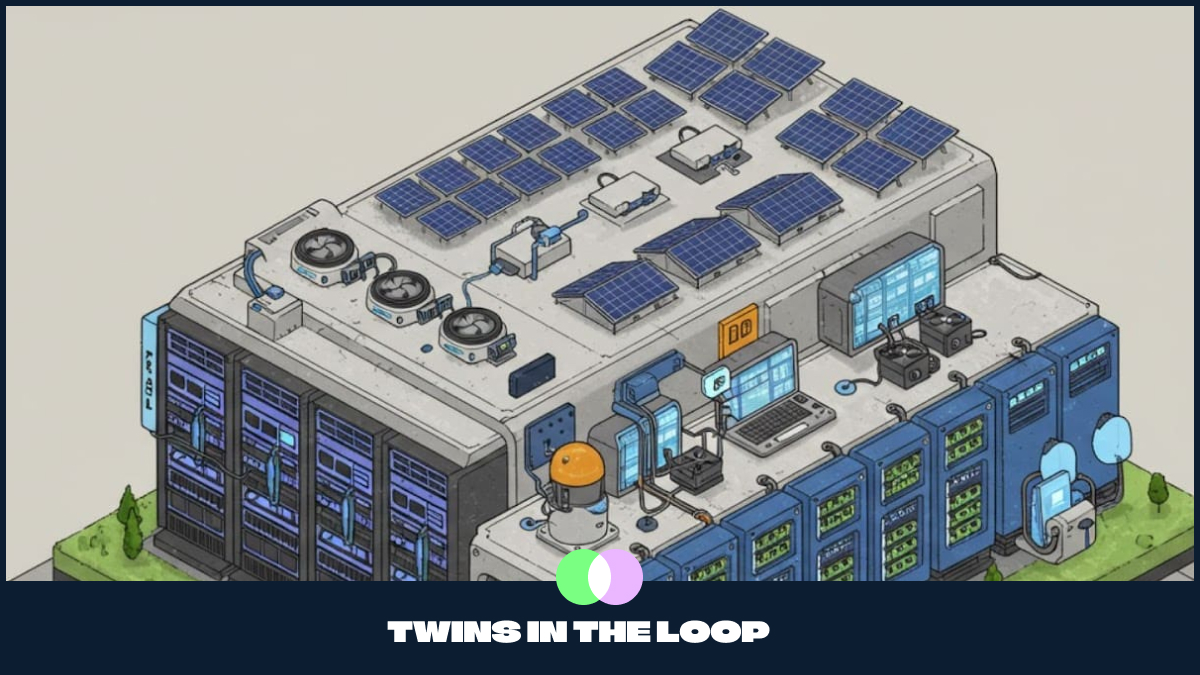
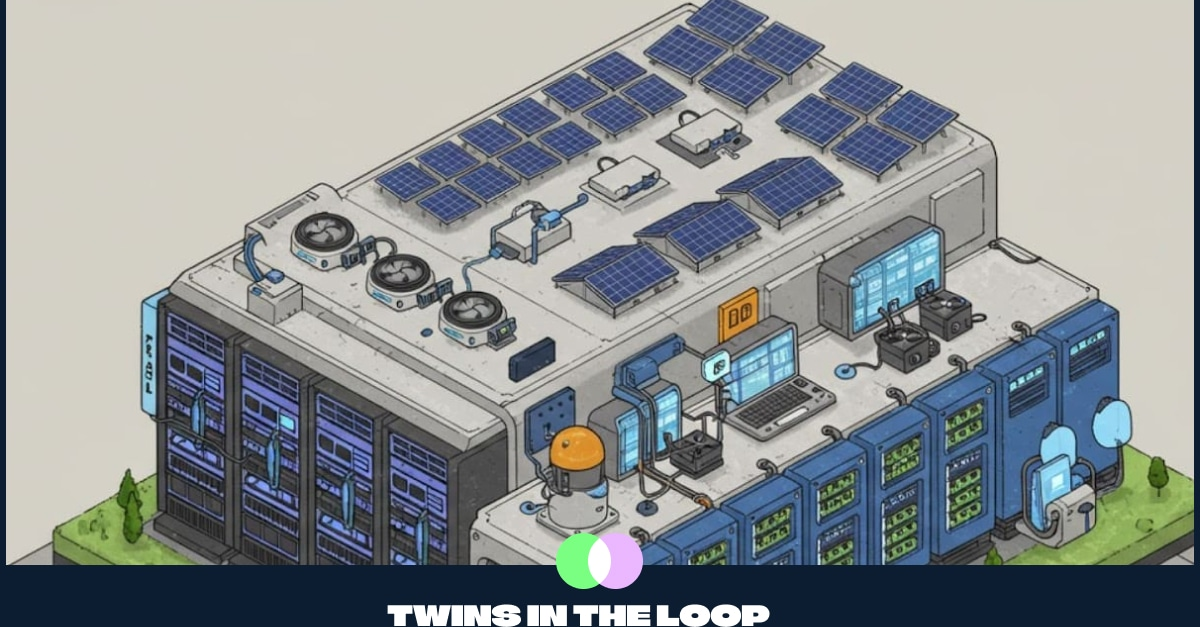
fix: drop the article cover and size share cards for LinkedIn
The detail-page cover pushed the copy down, so cards and podcast art
keep the image while the article itself does not. Share cards are now
1200x627, the ratio LinkedIn shows without cropping the brand bar.

diff --git a/src/lib/seo.ts b/src/lib/seo.ts
@@ -6,6 +6,14 @@ export const DEFAULT_OG_IMAGE = '/images/og-default.jpg';
 /** Article pages when `og.image` and `cover` are omitted. */
 export const ARTICLE_OG_IMAGE = '/images/og-news.jpg';
 
+/**
+ * LinkedIn link-preview size.
+ * https://www.linkedin.com/help/linkedin/answer/a521928
+ * Minimum 1200×627, recommended ratio 1.91:1, max 5 MB.
+ */
+export const OG_IMAGE_WIDTH = 1200;
+export const OG_IMAGE_HEIGHT = 627;
+
 export type OgType = 'website' | 'article';
 
 export interface OgInput {
@@ -31,6 +39,9 @@ export interface ResolvedSeo {
   ogTitle: string;
   ogDescription: string;
   ogImage: string;
+  ogImageType?: string;
+  ogImageWidth?: number;
+  ogImageHeight?: number;
   ogType: OgType;
   robots: string;
   keywords?: string[];
@@ -65,6 +76,48 @@ export function framedOgImagePath(slug: string): string {
   return `/og/${slug}.jpg`;
 }
 
+function imagePathname(imageUrl: string): string {
+  if (/^https?:\/\//.test(imageUrl)) {
+    return new URL(imageUrl).pathname;
+  }
+
+  const queryIndex = imageUrl.indexOf('?');
+  return queryIndex === -1 ? imageUrl : imageUrl.slice(0, queryIndex);
+}
+
+/** MIME type LinkedIn accepts. WebP is omitted; their crawler drops it. */
+export function ogImageType(imageUrl: string): string | undefined {
+  const pathname = imagePathname(imageUrl).toLowerCase();
+  if (pathname.endsWith('.jpg') || pathname.endsWith('.jpeg')) {
+    return 'image/jpeg';
+  }
+  if (pathname.endsWith('.png')) {
+    return 'image/png';
+  }
+  if (pathname.endsWith('.gif')) {
+    return 'image/gif';
+  }
+
+  return undefined;
+}
+
+/** Width and height for cards we generate at the LinkedIn size. */
+export function standardOgDimensions(
+  imageUrl: string,
+): { width: number; height: number } | undefined {
+  const pathname = imagePathname(imageUrl);
+  const standard =
+    pathname.endsWith(DEFAULT_OG_IMAGE) ||
+    pathname.endsWith(ARTICLE_OG_IMAGE) ||
+    /\/og\/[^/]+\.jpe?g$/.test(pathname);
+
+  if (!standard) {
+    return undefined;
+  }
+
+  return { width: OG_IMAGE_WIDTH, height: OG_IMAGE_HEIGHT };
+}
+
 export function articleOgImage(
   image: string | { src: string } | undefined,
   cover?: string | { src: string } | undefined,
@@ -95,6 +148,7 @@ export function resolveSeo(
     ? ogSource
     : new URL(withBase(ogSource), site.siteUrl).toString();
   const indexable = options.indexable ?? isSiteIndexable();
+  const dimensions = standardOgDimensions(ogImage);
 
   return {
     title: input.title,
@@ -103,6 +157,9 @@ export function resolveSeo(
     ogTitle: input.og?.title ?? withSiteTitle(input.title, site.title),
     ogDescription: input.og?.description ?? input.description,
     ogImage,
+    ogImageType: ogImageType(ogImage),
+    ogImageWidth: dimensions?.width,
+    ogImageHeight: dimensions?.height,
     ogType: input.og?.type ?? 'website',
     robots: !indexable || input.noindex ? 'noindex, nofollow' : 'index, follow',
     keywords: input.keywords,

diff --git a/src/lib/ogImage.ts b/src/lib/ogImage.ts
@@ -1,9 +1,10 @@
 import path from 'node:path';
 import sharp from 'sharp';
+import { OG_IMAGE_HEIGHT, OG_IMAGE_WIDTH } from './seo';
 
-/** Matches `public/images/og-news.jpg` (16:9). */
-export const OG_IMAGE_WIDTH = 1200;
-export const OG_IMAGE_HEIGHT = 675;
+export { OG_IMAGE_HEIGHT, OG_IMAGE_WIDTH };
+
+/** JPEG quality for the composed LinkedIn card. */
 export const OG_IMAGE_QUALITY = 90;
 
 /** Resolve from the repo root. `import.meta.url` breaks after Astro prerender relocates this module. */
@@ -17,21 +18,43 @@ export interface ComposeOgImageInput {
   frame?: string | Buffer;
 }
 
+async function linkedInFrame(frame: string | Buffer): Promise<Buffer> {
+  const metadata = await sharp(frame).metadata();
+  const sourceWidth = metadata.width ?? OG_IMAGE_WIDTH;
+  const sourceHeight = metadata.height ?? OG_IMAGE_HEIGHT;
+  const scaledHeight = Math.round(
+    (OG_IMAGE_WIDTH * sourceHeight) / sourceWidth,
+  );
+  const resized = sharp(frame).resize(OG_IMAGE_WIDTH, scaledHeight, {
+    fit: 'fill',
+  });
+  // The brand bar sits on the bottom of the 16:9 frame. Keep that edge and
+  // trim the transparent top so the bar is not squashed on the shorter card.
+  const overlay =
+    scaledHeight > OG_IMAGE_HEIGHT
+      ? resized.extract({
+          left: 0,
+          top: scaledHeight - OG_IMAGE_HEIGHT,
+          width: OG_IMAGE_WIDTH,
+          height: OG_IMAGE_HEIGHT,
+        })
+      : resized;
+
+  return overlay.png().toBuffer();
+}
+
 export async function composeOgImage({
   cover,
   frame = OG_FRAME_PATH,
 }: ComposeOgImageInput): Promise<Buffer> {
-  const overlay = await sharp(frame)
-    .resize(OG_IMAGE_WIDTH, OG_IMAGE_HEIGHT, { fit: 'fill' })
-    .png()
-    .toBuffer();
+  const overlay = await linkedInFrame(frame);
 
   return sharp(cover)
     .resize(OG_IMAGE_WIDTH, OG_IMAGE_HEIGHT, {
       fit: 'cover',
       position: 'centre',
     })
-    .composite([{ input: overlay, blend: 'over' }])
+    .composite([{ input: overlay, gravity: 'south', blend: 'over' }])
     .jpeg({ quality: OG_IMAGE_QUALITY, mozjpeg: true })
     .toBuffer();
 }

diff --git a/src/lib/seo.test.ts b/src/lib/seo.test.ts
@@ -2,6 +2,8 @@ import { describe, expect, it } from 'vitest';
 import {
   ARTICLE_OG_IMAGE,
   DEFAULT_OG_IMAGE,
+  OG_IMAGE_HEIGHT,
+  OG_IMAGE_WIDTH,
   articleOgImage,
   resolveSeo,
   withSiteTitle,
@@ -25,6 +27,9 @@ describe('resolveSeo', () => {
 
     expect(seo.canonical).toBe('https://twinsintheloop.com/about');
     expect(seo.ogImage).toBe(`https://twinsintheloop.com${DEFAULT_OG_IMAGE}`);
+    expect(seo.ogImageType).toBe('image/jpeg');
+    expect(seo.ogImageWidth).toBe(OG_IMAGE_WIDTH);
+    expect(seo.ogImageHeight).toBe(OG_IMAGE_HEIGHT);
     expect(seo.ogTitle).toBe('About · Twins in the Loop');
     expect(seo.ogDescription).toBe('Meet the twins');
     expect(seo.robots).toBe('index, follow');
@@ -55,6 +60,9 @@ describe('resolveSeo', () => {
       'We are infrastructure, open source software, and design nerds who love building for the future.',
     );
     expect(seo.ogImage).toBe('https://twinsintheloop.com/share/about.png');
+    expect(seo.ogImageType).toBe('image/png');
+    expect(seo.ogImageWidth).toBeUndefined();
+    expect(seo.ogImageHeight).toBeUndefined();
     expect(seo.ogType).toBe('website');
   });
 
@@ -101,9 +109,21 @@ describe('articleOgImage', () => {
   });
 
   it('uses a framed share card when a cover and slug are present', () => {
-    expect(articleOgImage(undefined, { src: '/covers/post.png' }, 'post')).toBe(
-      '/og/post.jpg',
+    const image = articleOgImage(
+      undefined,
+      { src: '/covers/post.png' },
+      'post',
     );
+    expect(image).toBe('/og/post.jpg');
+
+    const seo = resolveSeo(
+      { title: 'Post', description: 'Body', og: { image } },
+      site,
+      '/post',
+    );
+    expect(seo.ogImageWidth).toBe(OG_IMAGE_WIDTH);
+    expect(seo.ogImageHeight).toBe(OG_IMAGE_HEIGHT);
+    expect(seo.ogImageType).toBe('image/jpeg');
   });
 
   it('falls back to cover when og.image and slug are omitted', () => {

diff --git a/src/lib/images.ts b/src/lib/images.ts
@@ -5,10 +5,6 @@ export const CARD_THUMBNAIL_WIDTHS = [400, 640, 800, 1200] as const;
 export const CARD_THUMBNAIL_SIZES =
   '(min-width: 1680px) 800px, (min-width: 768px) 45vw, 100vw';
 
-export const ARTICLE_COVER_WIDTHS = [640, 960, 1280, 1600] as const;
-export const ARTICLE_COVER_SIZES =
-  '(min-width: 1680px) 960px, (min-width: 1024px) 66vw, 100vw';
-
 /** Square episode art next to a podcast player. */
 export const EPISODE_ART_WIDTHS = [288, 576] as const;
 export const EPISODE_ART_SIZES = '(min-width: 640px) 288px, 100vw';
@@ -38,10 +34,6 @@ export function responsiveImageWidths(
 
 export function thumbnailWidths(sourceWidth: number): number[] {
   return responsiveImageWidths(sourceWidth, CARD_THUMBNAIL_WIDTHS);
-}
-
-export function articleCoverWidths(sourceWidth: number): number[] {
-  return responsiveImageWidths(sourceWidth, ARTICLE_COVER_WIDTHS);
 }
 
 export function episodeArtWidths(sourceWidth: number): number[] {

diff --git a/src/lib/images.test.ts b/src/lib/images.test.ts
@@ -1,6 +1,5 @@
 import { describe, expect, it } from 'vitest';
 import {
-  articleCoverWidths,
   authorAvatarWidths,
   authorPhotoWidths,
   episodeArtWidths,
@@ -31,12 +30,6 @@ describe('responsiveImageWidths', () => {
 describe('thumbnailWidths', () => {
   it('uses the card thumbnail candidate list', () => {
     expect(thumbnailWidths(1600)).toEqual([400, 640, 800, 1200]);
-  });
-});
-
-describe('articleCoverWidths', () => {
-  it('uses the article cover candidate list', () => {
-    expect(articleCoverWidths(1920)).toEqual([640, 960, 1280, 1600]);
   });
 });
 

diff --git a/src/lib/ogImage.test.ts b/src/lib/ogImage.test.ts
@@ -47,7 +47,9 @@ describe('composeOgImage', () => {
 
     const raw = await image.removeAlpha().raw().toBuffer();
     expect(isClose(rgb(raw, 600, 40), [220, 40, 40])).toBe(true);
-    expect(isClose(rgb(raw, 100, 650), [56, 69, 85])).toBe(true);
+    expect(isClose(rgb(raw, 100, OG_IMAGE_HEIGHT - 25), [56, 69, 85])).toBe(
+      true,
+    );
   });
 
   it('reads the default frame from the covers asset', () => {

diff --git a/docs/content.md b/docs/content.md
@@ -35,7 +35,7 @@ Create a **Topic** entry in Strapi. That's all — no code change and no redeplo
 
 A topic with no posts still shows a chip that filters everything out, so delete unused ones.
 
-A cover only renders if Strapi knows its width and height, which it records automatically on upload. Posts without a cover show a solid panel instead, and `/og/{slug}.jpg` returns 404 so the share card falls back to `/images/og-news.jpg`.
+A cover only renders if Strapi knows its width and height, which it records automatically on upload. Posts without a cover show a solid panel on the homepage instead, and `/og/{slug}.jpg` returns 404 so the share card falls back to `/images/og-news.jpg`. The article page does not show the cover.
 
 ### If a published change doesn't appear
 
@@ -67,22 +67,22 @@ Written posts can omit `embedUrl` and `og`. Video and podcast entries should set
 
 ### Post fields
 
-| Field         | Required                                    | Effect                                                                                                                                                                   |
-| ------------- | ------------------------------------------- | ------------------------------------------------------------------------------------------------------------------------------------------------------------------------ |
-| `title`       | Yes                                         | Article H1, browser title, RSS title, Web Share title. Also `og:title` unless `og.title` is set                                                                          |
-| `description` | Yes                                         | Meta description, RSS description, and social description unless `og.description` is set                                                                                 |
-| `excerpt`     | Yes                                         | Homepage card teaser. Also fills the TL;DR box if `tldr` is omitted                                                                                                      |
-| `published`   | Yes                                         | Sort order, card date, article date, RSS `pubDate`. Use `YYYY-MM-DD`                                                                                                     |
-| `updated`     | No                                          | Optional last-updated date (`YYYY-MM-DD`)                                                                                                                                |
-| `author`      | Yes                                         | `zac` or `jacob`. Colors, tags, About lookup, author filter                                                                                                              |
-| `type`        | Yes                                         | `post`, `musing`, `video`, or `podcast`. Sets the icon on cards                                                                                                          |
-| `topics`      | Yes                                         | One or more of `ai`, `data-centers`, `infrastructure`, `hardware`. Powers homepage topic chips                                                                           |
-| `featured`    | No                                          | Stored on the post. Homepage shows every published post as a thumbnail card, newest first                                                                                |
-| `draft`       | No                                          | Default `false`. `true` hides the post from production builds. Drafts still show in `bun run dev`                                                                        |
-| `cover`       | No                                          | Homepage card image and article image. Share image is the framed `/og/{slug}.jpg` unless `og.image` is set. Posts without a cover use `/images/og-news.jpg`              |
-| `tldr`        | No                                          | Sidebar TL;DR on the article page. Falls back to `excerpt`                                                                                                               |
-| `embedUrl`    | No                                          | Video/podcast URL (`https://…`). Required in practice for `type: video` or `podcast`. Rendered as a player — see [Video and podcast players](#video-and-podcast-players) |
-| SEO fields    | See [SEO and sharing](./seo-and-sharing.md) | Nested `og` (`title`, `description`, `image`, `type`), plus `canonical`, `noindex`, `keywords`                                                                           |
+| Field         | Required                                    | Effect                                                                                                                                                                                           |
+| ------------- | ------------------------------------------- | ------------------------------------------------------------------------------------------------------------------------------------------------------------------------------------------------ |
+| `title`       | Yes                                         | Article H1, browser title, RSS title, Web Share title. Also `og:title` unless `og.title` is set                                                                                                  |
+| `description` | Yes                                         | Meta description, RSS description, and social description unless `og.description` is set                                                                                                         |
+| `excerpt`     | Yes                                         | Homepage card teaser. Also fills the TL;DR box if `tldr` is omitted                                                                                                                              |
+| `published`   | Yes                                         | Sort order, card date, article date, RSS `pubDate`. Use `YYYY-MM-DD`                                                                                                                             |
+| `updated`     | No                                          | Optional last-updated date (`YYYY-MM-DD`)                                                                                                                                                        |
+| `author`      | Yes                                         | `zac` or `jacob`. Colors, tags, About lookup, author filter                                                                                                                                      |
+| `type`        | Yes                                         | `post`, `musing`, `video`, or `podcast`. Sets the icon on cards                                                                                                                                  |
+| `topics`      | Yes                                         | One or more of `ai`, `data-centers`, `infrastructure`, `hardware`. Powers homepage topic chips                                                                                                   |
+| `featured`    | No                                          | Stored on the post. Homepage shows every published post as a thumbnail card, newest first                                                                                                        |
+| `draft`       | No                                          | Default `false`. `true` hides the post from production builds. Drafts still show in `bun run dev`                                                                                                |
+| `cover`       | No                                          | Homepage card image and podcast episode art. Not shown on the article page. Share image is the framed `/og/{slug}.jpg` unless `og.image` is set. Posts without a cover use `/images/og-news.jpg` |
+| `tldr`        | No                                          | Sidebar TL;DR on the article page. Falls back to `excerpt`                                                                                                                                       |
+| `embedUrl`    | No                                          | Video/podcast URL (`https://…`). Required in practice for `type: video` or `podcast`. Rendered as a player — see [Video and podcast players](#video-and-podcast-players)                         |
+| SEO fields    | See [SEO and sharing](./seo-and-sharing.md) | Nested `og` (`title`, `description`, `image`, `type`), plus `canonical`, `noindex`, `keywords`                                                                                                   |
 
 ### Content type icons
 
@@ -99,9 +99,9 @@ All four types share the article layout. `type` changes three things:
 
 | `type`    | Above the title | Sidebar                 | Media                                   | Follow-on list |
 | --------- | --------------- | ----------------------- | --------------------------------------- | -------------- |
-| `post`    | Date only       | TL;DR                   | Cover                                   | More articles  |
-| `musing`  | Date + Musing   | Pull-quote (“In short”) | Cover                                   | More musings   |
-| `video`   | Date + Video    | TL;DR                   | Player from `embedUrl`, else cover      | More videos    |
+| `post`    | Date only       | TL;DR                   | None                                    | More articles  |
+| `musing`  | Date + Musing   | Pull-quote (“In short”) | None                                    | More musings   |
+| `video`   | Date + Video    | TL;DR                   | Player from `embedUrl`                  | More videos    |
 | `podcast` | Date + Podcast  | TL;DR                   | Cover beside the player from `embedUrl` | More episodes  |
 
 The follow-on list leads with posts of the same type and then fills up to four from everything else.

diff --git a/docs/seo-and-sharing.md b/docs/seo-and-sharing.md
@@ -6,16 +6,16 @@ The resolver lives in `src/lib/seo.ts`. Pages pass MDX fields through `BaseLayou
 
 ## What visitors and crawlers see
 
-| Surface                           | Source                                                                                          |
-| --------------------------------- | ----------------------------------------------------------------------------------------------- |
-| Browser tab                       | `title`, then ` · Twins in the Loop` unless the title already is the site name                  |
-| Google snippet                    | `<title>`, `description`, `canonical`, `robots`                                                 |
-| Slack / LinkedIn / iMessage       | Open Graph: `og:title`, `og:description`, `og:image`, `og:url`, `og:type`                       |
-| X / Twitter cards                 | `twitter:title`, `twitter:description`, `twitter:image` (`summary_large_image`)                 |
-| RSS (`/rss.xml`)                  | Channel from site settings; items from post `title`, `description`, `published`                 |
-| Sitemap                           | Built at `/sitemap-index.xml` in production. Omitted when `PUBLIC_SITE_ENV` is not `production` |
-| robots.txt                        | Production: allows `/` and points at the sitemap. Other envs: `Disallow: /`                     |
-| Copy article link / Share article | Copies or shares the canonical article URL. Web Share uses the post `title`                     |
+| Surface                           | Source                                                                                                         |
+| --------------------------------- | -------------------------------------------------------------------------------------------------------------- |
+| Browser tab                       | `title`, then ` · Twins in the Loop` unless the title already is the site name                                 |
+| Google snippet                    | `<title>`, `description`, `canonical`, `robots`                                                                |
+| Slack / LinkedIn / iMessage       | Open Graph: `og:title`, `og:description`, `og:image`, `og:image:width`, `og:image:height`, `og:url`, `og:type` |
+| X / Twitter cards                 | `twitter:title`, `twitter:description`, `twitter:image` (`summary_large_image`)                                |
+| RSS (`/rss.xml`)                  | Channel from site settings; items from post `title`, `description`, `published`                                |
+| Sitemap                           | Built at `/sitemap-index.xml` in production. Omitted when `PUBLIC_SITE_ENV` is not `production`                |
+| robots.txt                        | Production: allows `/` and points at the sitemap. Other envs: `Disallow: /`                                    |
+| Copy article link / Share article | Copies or shares the canonical article URL. Web Share uses the post `title`                                    |
 
 ## Shared frontmatter (every collection)
 
@@ -99,7 +99,7 @@ Image paths:
 | Public subfolder | `image: /share/my-post.png`                              | `public/share/my-post.png`         |
 | Absolute         | `image: https://cdn.example.com/card.png`                | Remote URL                         |
 
-Recommended card size: 1200×675 JPEG (16:9), matching the generated article cards.
+Recommended card size: 1200×627 JPEG (1.91:1). That is LinkedIn’s minimum share size and recommended ratio, so the card is not cropped in the feed. Generated article cards and the default images in `public/images/` use this size. Custom `og.image` files should match it; width and height tags are only emitted for images we know are 1200×627.
 
 Defaults:
 
@@ -123,7 +123,7 @@ og:
   image: /share/ai-datacenter-neighbors-og.png
 ```
 
-Articles with a `cover` and no `og.image` generate a 1200×675 JPEG at `/og/{slug}.jpg`: the cover is cropped to fill the card, then `src/assets/covers/frame.png` is laid on top (brand bar + wordmark). Posts without a cover still use `/images/og-news.jpg`.
+Articles with a `cover` and no `og.image` generate a 1200×627 JPEG at `/og/{slug}.jpg`: the cover is cropped to fill the card, then `src/assets/covers/frame.png` is laid on top, aligned to the bottom so the brand bar stays intact. Posts without a cover still use `/images/og-news.jpg`.
 
 `embedUrl` is not a share-card field. It renders a player on the page and feeds JSON-LD, but it does not become `og:video` or a Twitter player card.
 
